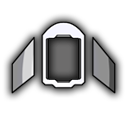
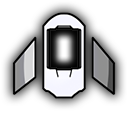
resources, regulation, pages fixes

diff --git a/src/pages/Trade.vue b/src/pages/Trade.vue
@@ -9,6 +9,8 @@
 <script>
 import ModulePage from '@/components/ModulePage.vue';
 
+const NEBULA_BUILD = !!process.env.VUE_APP_NEBULA_BUILD;
+
 export default {
     components: { ModulePage },
     methods: {
@@ -16,10 +18,12 @@ export default {
             // добавить макс бонус DroneShipment
             const ShipmentDrone = { ...data.ShipmentDrone };
 
-            ShipmentDrone.DroneShipmentBonusMax = ShipmentDrone.DroneShipmentBonus
-                .map((e, i) => ((ShipmentDrone?.SpawnCapacity || ShipmentDrone.drone.JobCapacity)[i] - 1) * e);
-            delete ShipmentDrone.PreventUseOnWsJumpgate;
-            data.ShipmentDrone = ShipmentDrone;
+            if (!NEBULA_BUILD) {
+                ShipmentDrone.DroneShipmentBonusMax = ShipmentDrone.DroneShipmentBonus
+                    .map((e, i) => ((ShipmentDrone?.SpawnCapacity || ShipmentDrone.drone.JobCapacity)[i] - 1) * e);
+                delete ShipmentDrone.PreventUseOnWsJumpgate;
+                data.ShipmentDrone = ShipmentDrone;
+            }
 
             return data;
         },

diff --git a/src/regulation/patchCommits.js b/src/regulation/patchCommits.js
@@ -2,6 +2,16 @@
 
 export default [
     {
+        hash: '5635af5658ed46b45a3ecf23f70bd46be1ddd899',
+        title: 'Patch № 9.1',
+        note: '[November 24]: fix for red stars becoming corp pvp, blue stars pve, white stars free for all pvp',
+    },
+    {
+        hash: 'c23b1caae1b75b42bbe60f505324406cd137e36e',
+        title: 'Update № 9',
+        note: '[November 24]: Module, economy and red star tweaks up to RS5',
+    },
+    {
         hash: '7deac2d0f73481739d61b0157c0840c0d3b8f904',
         title: 'Update № 8',
         note: '[October 27]: Artifact redesign, Module and early RS level tweaks',

diff --git a/src/pages/Support.vue b/src/pages/Support.vue
@@ -1,7 +1,7 @@
 <template>
   <ModulePage
     type="Support"
-    portrait="portrait_AlphaDrone"
+    portrait="portrait_TurretLaser"
     :post-filter="postFilter"
   />
 </template>
